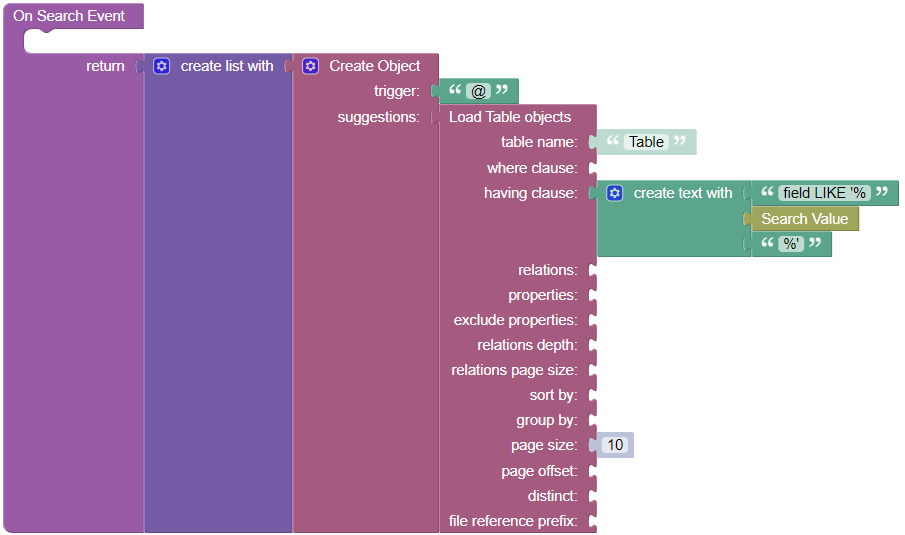
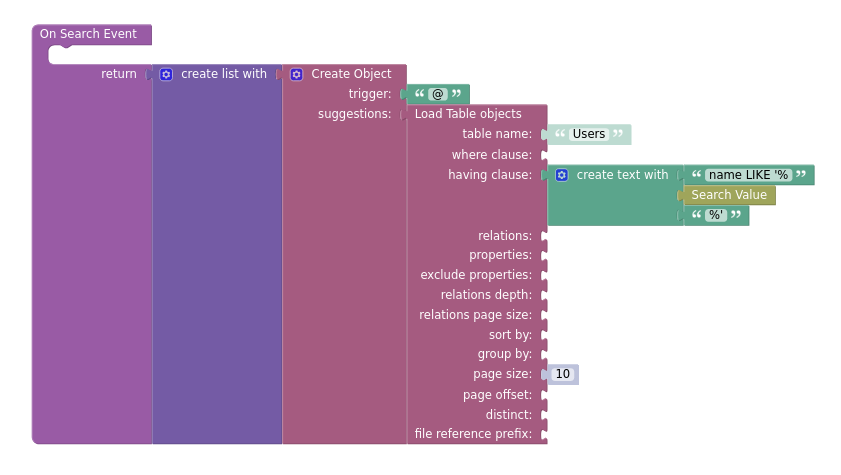
MARKET-2333 [Mention] Console error after adding an examples code blocks. (#894)
* MARKET-2333 [Mention] Console error after adding an examples code blocks.

* MARKET-2353 [Mention] Search event trigger after page enter.

* Revert "MARKET-2353 [Mention] Search event trigger after page enter."

This reverts commit 55273b5543c37cc8cb8ca58bf2974b390df06721.

---------

Changed region(s): [[0.0, 0.0, 1.0, 1.0]]

diff --git a/components/bl-mention/src/helpers.js b/components/bl-mention/src/helpers.js
@@ -1,13 +1,13 @@
-const compareCaseInsensitive = (suggestion, query) => {
-  return suggestion.field.toLowerCase().startsWith(query.toLowerCase());
+const compareCaseInsensitive = (suggestion, query, field) => {
+  return suggestion[field]?.toLowerCase().startsWith(query.toLowerCase());
 };
 
 export const useTriggers = trigger => (trigger ? stringToList(trigger) : ['@']);
 
-export const filterSuggestions = (suggestions, query) => {
+export const filterSuggestions = (suggestions, query, field) => {
   return !query.trim()
     ? suggestions
-    : suggestions?.filter(suggestion => compareCaseInsensitive(suggestion, query));
+    : suggestions?.filter(suggestion => compareCaseInsensitive(suggestion, query, field));
 };
 
 export const stringToList = text => text.split(',').map(el => el.trim());

diff --git a/components/bl-mention/src/index.js b/components/bl-mention/src/index.js
@@ -50,7 +50,7 @@ export default function MentionComponent({ component, eventHandlers }) {
 
       const suggestionsByTrigger = suggestionsMap.get(eventTrigger);
 
-      setProcessedSuggestions(filterSuggestions(suggestionsByTrigger, query));
+      setProcessedSuggestions(filterSuggestions(suggestionsByTrigger, query, field));
     }
   }, [triggers, suggestionsMap]);
 

diff --git a/components/bl-mention/README.md b/components/bl-mention/README.md
@@ -14,7 +14,7 @@ The component is based on external [Mention](https://www.primefaces.org/primerea
 |----------------|------------|-----------------------------------------------------------------------------------------------------------------------------------|-------------------|--------------|------------|---------------------------------------------------------------------------------------------------------------------------------------------------------------------------------------------------|
 | Trigger        | *Text*     | '@'                                                                                                                               | Trigger Logic     | YES          | YES        | It is a handler to set trigger keywords.                                                                                                                                                          |
 | Suggestions    | *JSON*     | `[{"trigger":"@","suggestions":[{"nickname":"jamesButt","name":"James Butt"},{"nickname":"krisMarrier","name":"Kris Marrier"}]}]` | Suggestions Logic | YES          | YES        | It is a handler to set an array of suggestion objects to display. Watch [Codeless Examples](#codeless-examples). Signature of suggestion object: `{trigger, suggestions: [name, nickname, img]}`. |
-| Field          | *Text*     | "nickname"                                                                                                                        | Field Logic       | YES          | YES        | It is a handler to sets a field of a suggested object to resolve and display.                                                                                                                     |
+| Field          | *Text*     | "name"                                                                                                                            | Field Logic       | YES          | YES        | It is a handler to sets a field of a suggested object to resolve and display.                                                                                                                     |
 | Scroll Height  | *Text*     | '200px'                                                                                                                           |                   | NO           | YES        | It is a handler to set the maximum height of the suggestions panel.                                                                                                                               |
 | Auto Highlight | *Checkbox* | `true`                                                                                                                            |                   | NO           | YES        | It is a handler to set auto-highlighting. When enabled, it highlights the first item in the list by default.                                                                                      |
 | Placeholder    | *Text*     | 'Please enter @ to mention'                                                                                                       |                   | NO           | YES        | It is a handler to set a placeholder of the component.                                                                                                                                            |
@@ -90,6 +90,6 @@ Optimized load of suggestions:
 <details><summary>Try yourself</summary>
 
 ````javascript
-<block xmlns="http://www.w3.org/1999/xhtml" type="lists_create_with" id="|Bf$+b~)[I!#Pp@Nqvx7" x="230.39999999999986" y="40.31999999999998"><mutation items="1"></mutation><value name="ADD0"><block type="create_object" id="neurkePyHAZ0E)s`)]*e"><mutation><properties><item id="property" prop-name="trigger"></item><item id="property" prop-name="suggestions"></item></properties></mutation><value name="create_object_mutator_container_properties_stack_property0"><block type="text" id="5+A{W_8C@IkKCuWP|yvT"><field name="TEXT">@</field></block></value><value name="create_object_mutator_container_properties_stack_property1"><block type="get_table_objects" id="6M`UtJ^;:zdWFw(o!^68"><value name="table_name"><shadow type="text" id="ac:H1@TVqm6s+|7rFZ^4"><field name="TEXT">Table</field></shadow></value><value name="having_clause"><block type="text_join" id="?qqm;|lsbj/I]8OkdI%`"><mutation items="3"></mutation><value name="ADD0"><block type="text" id="*jcMoQPo12b2|d0K`9e/"><field name="TEXT">field LIKE '%</field></block></value><value name="ADD1"><block type="root_block_ui_builder_c_9caa572d06d9006e2afa63415a71193c_onSearch_handler_context_blocks_searchValue" id=")OjP_`##P72)#_2vE%?T" bl_meta="{&quot;label&quot;:&quot;Search Value&quot;}"></block></value><value name="ADD2"><block type="text" id="c=[pzKL~/UGrUlSk|qjt"><field name="TEXT">%'</field></block></value></block></value><value name="page_size"><shadow type="math_number" id="}{e#th:f(,.h`Gv^CFDM"><field name="NUM">10</field></shadow></value></block></value></block></value></block>
+<block xmlns="http://www.w3.org/1999/xhtml" type="lists_create_with" id="|Bf$+b~)[I!#Pp@Nqvx7" x="171.63333129882812" y="100"><mutation items="1"></mutation><value name="ADD0"><block type="create_object" id="neurkePyHAZ0E)s`)]*e"><mutation><properties><item id="property" prop-name="trigger"></item><item id="property" prop-name="suggestions"></item></properties></mutation><value name="create_object_mutator_container_properties_stack_property0"><block type="text" id="5+A{W_8C@IkKCuWP|yvT"><field name="TEXT">@</field></block></value><value name="create_object_mutator_container_properties_stack_property1"><block type="get_table_objects" id="6M`UtJ^;:zdWFw(o!^68"><value name="table_name"><shadow type="text" id="ac:H1@TVqm6s+|7rFZ^4"><field name="TEXT">Users</field></shadow></value><value name="having_clause"><block type="text_join" id="?qqm;|lsbj/I]8OkdI%`"><mutation items="3"></mutation><value name="ADD0"><block type="text" id="*jcMoQPo12b2|d0K`9e/"><field name="TEXT">name LIKE '%</field></block></value><value name="ADD1"><block type="root_block_ui_builder_c_9caa572d06d9006e2afa63415a71193c_onSearch_handler_context_blocks_searchValue" id=")OjP_`##P72)#_2vE%?T" bl_meta="{&quot;label&quot;:&quot;Search Value&quot;}"></block></value><value name="ADD2"><block type="text" id="c=[pzKL~/UGrUlSk|qjt"><field name="TEXT">%'</field></block></value></block></value><value name="page_size"><shadow type="math_number" id="}{e#th:f(,.h`Gv^CFDM"><field name="NUM">10</field></shadow></value></block></value></block></value></block>
 ````
 </details>
